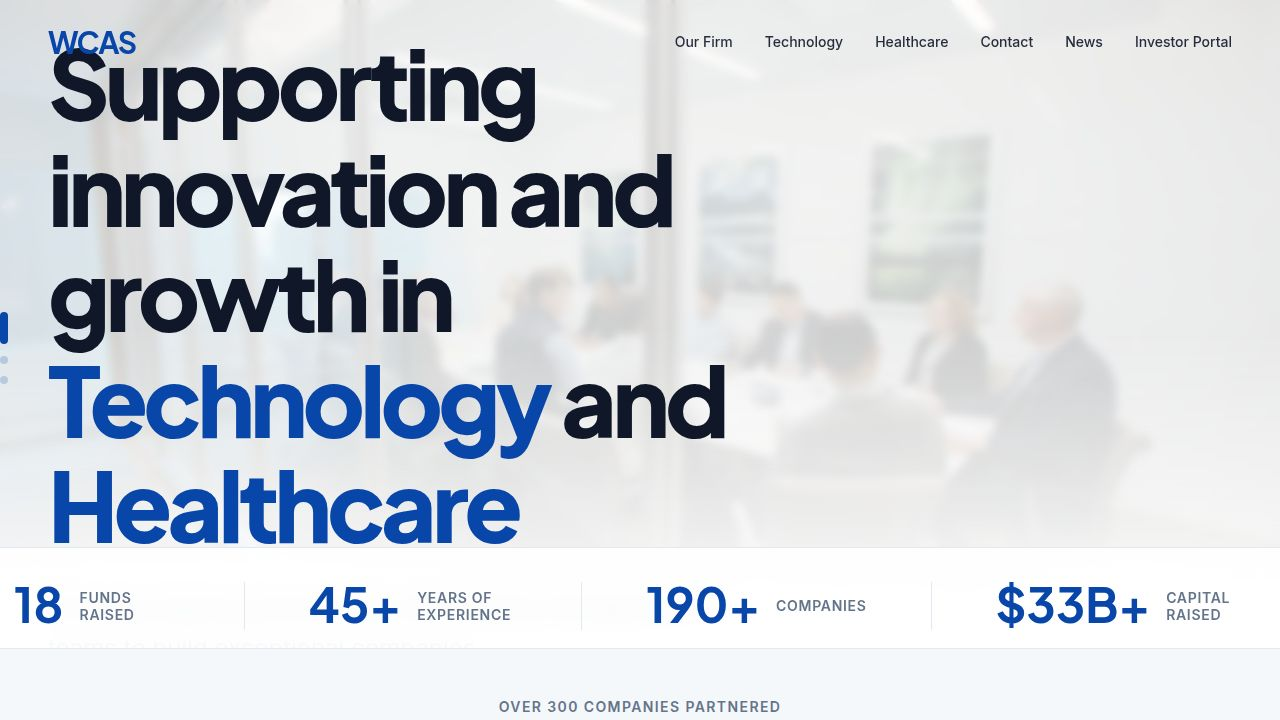
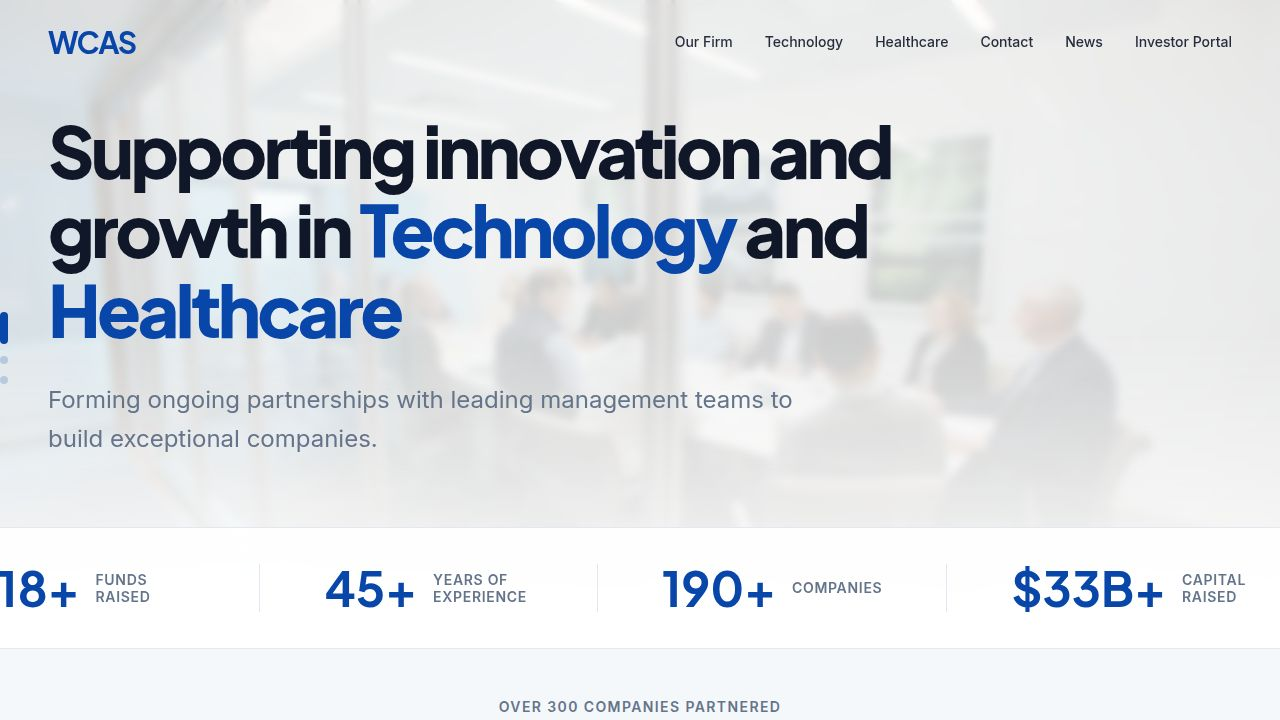
Add a modern video slider with Vimeo embeds to the homepage
Integrates a responsive Vimeo video slider component into the homepage, replacing previous video elements and enhancing media display.

Replit-Commit-Author: Agent
Replit-Commit-Session-Id: 1946200e-5dd1-48e7-bc13-41e3c93ccf3a
Replit-Commit-Checkpoint-Type: full_checkpoint
Replit-Commit-Event-Id: ca6f78cd-9c40-434f-8983-a1e9e13a0368
Replit-Commit-Screenshot-Url: https://storage.googleapis.com/screenshot-production-us-central1/07950341-7b77-4f47-849a-da712c7550fe/1946200e-5dd1-48e7-bc13-41e3c93ccf3a/MNzhtab
Replit-Helium-Checkpoint-Created: true

diff --git a/client/src/pages/Home.tsx b/client/src/pages/Home.tsx
@@ -229,14 +229,14 @@ export default function Home() {
           </div>
         </div>
       </section>
-      {/* Mission Section */}
+      {/* Mission & Video Slider Section */}
       <section className="py-32 bg-primary text-primary-foreground relative overflow-hidden">
         {/* Abstract shapes for background interest */}
         <div className="absolute top-0 right-0 -translate-y-1/2 translate-x-1/3 w-[800px] h-[800px] rounded-full border border-white/10 opacity-50"></div>
         <div className="absolute bottom-0 left-0 translate-y-1/3 -translate-x-1/4 w-[600px] h-[600px] rounded-full border border-white/10 opacity-50"></div>
         
         <div className="container mx-auto px-6 md:px-12 relative z-10">
-          <div className="grid grid-cols-1 lg:grid-cols-2 gap-16 items-center">
+          <div className="grid grid-cols-1 lg:grid-cols-2 gap-16 items-center mb-24">
             <div>
               <h2 className="text-4xl md:text-5xl lg:text-6xl font-heading font-bold leading-tight mb-8 tracking-tighter">
                 Our Mission: Your Partner of Choice
@@ -250,6 +250,30 @@ export default function Home() {
               <Button size="lg" variant="secondary" className="rounded-full px-8 font-semibold">
                 Learn More About Our History
               </Button>
+            </div>
+          </div>
+
+          {/* Video Slider */}
+          <div className="relative w-full overflow-hidden rounded-2xl shadow-2xl bg-black/20 backdrop-blur-sm border border-white/10 p-4 md:p-8">
+            <div className="flex gap-6 overflow-x-auto pb-6 snap-x snap-mandatory scrollbar-hide" style={{ scrollbarWidth: 'none', msOverflowStyle: 'none' }}>
+              {[
+                "861242809", "913387748", "861242949", "913387297", 
+                "861243091", "913334845", "861243221", "913388269"
+              ].map((videoId, index) => (
+                <div key={index} className="min-w-[85vw] md:min-w-[60vw] lg:min-w-[45vw] snap-center shrink-0 rounded-xl overflow-hidden aspect-video bg-black/50 relative group">
+                  <iframe 
+                    src={`https://player.vimeo.com/video/${videoId}?h=dbf9bc9a77&title=0&byline=0&portrait=0`}
+                    className="absolute top-0 left-0 w-full h-full"
+                    frameBorder="0"
+                    allow="autoplay; fullscreen; picture-in-picture"
+                    allowFullScreen
+                  ></iframe>
+                </div>
+              ))}
+            </div>
+            {/* Scroll hint indicators */}
+            <div className="absolute right-8 top-1/2 -translate-y-1/2 hidden md:flex items-center justify-center w-12 h-12 rounded-full bg-white/10 backdrop-blur-md border border-white/20 text-white pointer-events-none opacity-0 group-hover:opacity-100 transition-opacity">
+              <ArrowRight size={24} />
             </div>
           </div>
         </div>